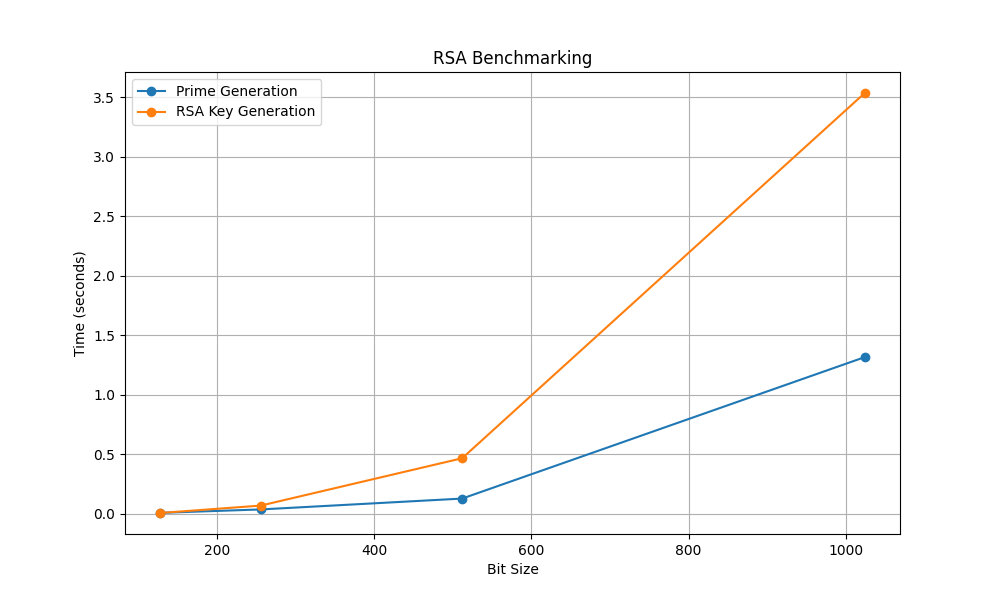
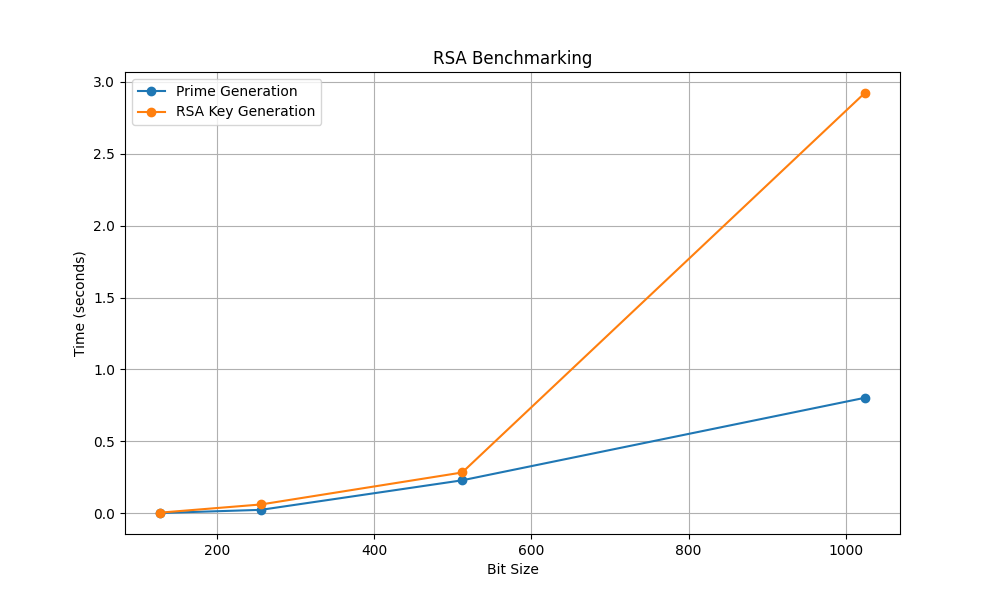
New improvements to the structure of the files

diff --git a/README.md b/README.md
@@ -164,16 +164,6 @@ Hello RSA
 
 ---
 
-# Future Improvements
-
-- RSA-OAEP implementation
-- Digital signatures
-- GUI version
-- AES hybrid encryption
-- Post-quantum cryptography research
-
----
-
 # Author
 
 Boston Karymshakov